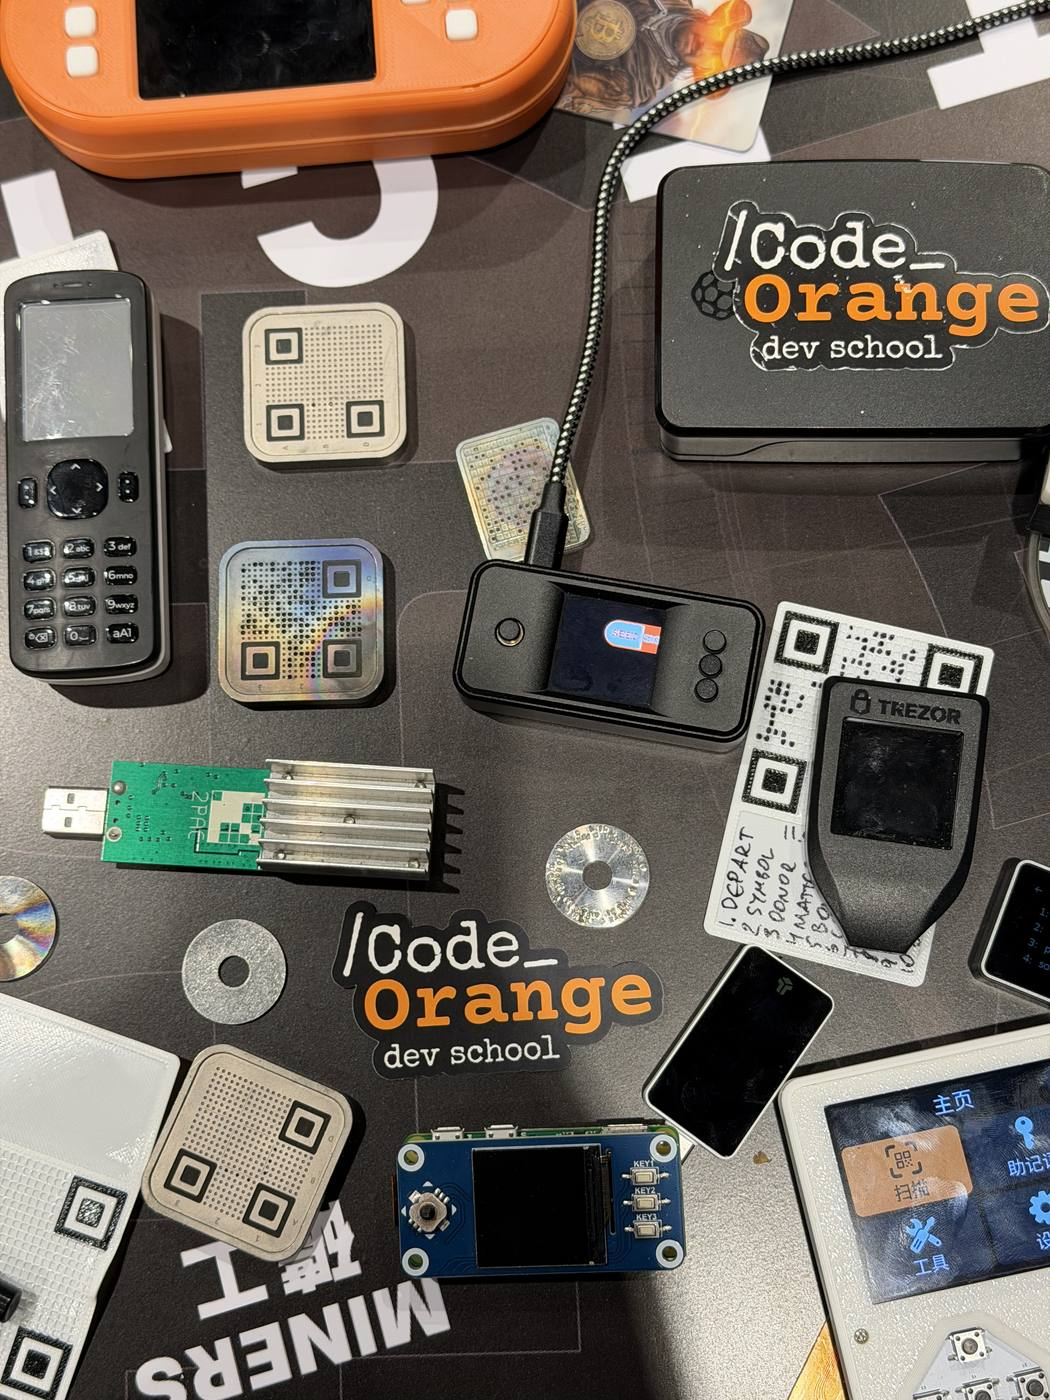
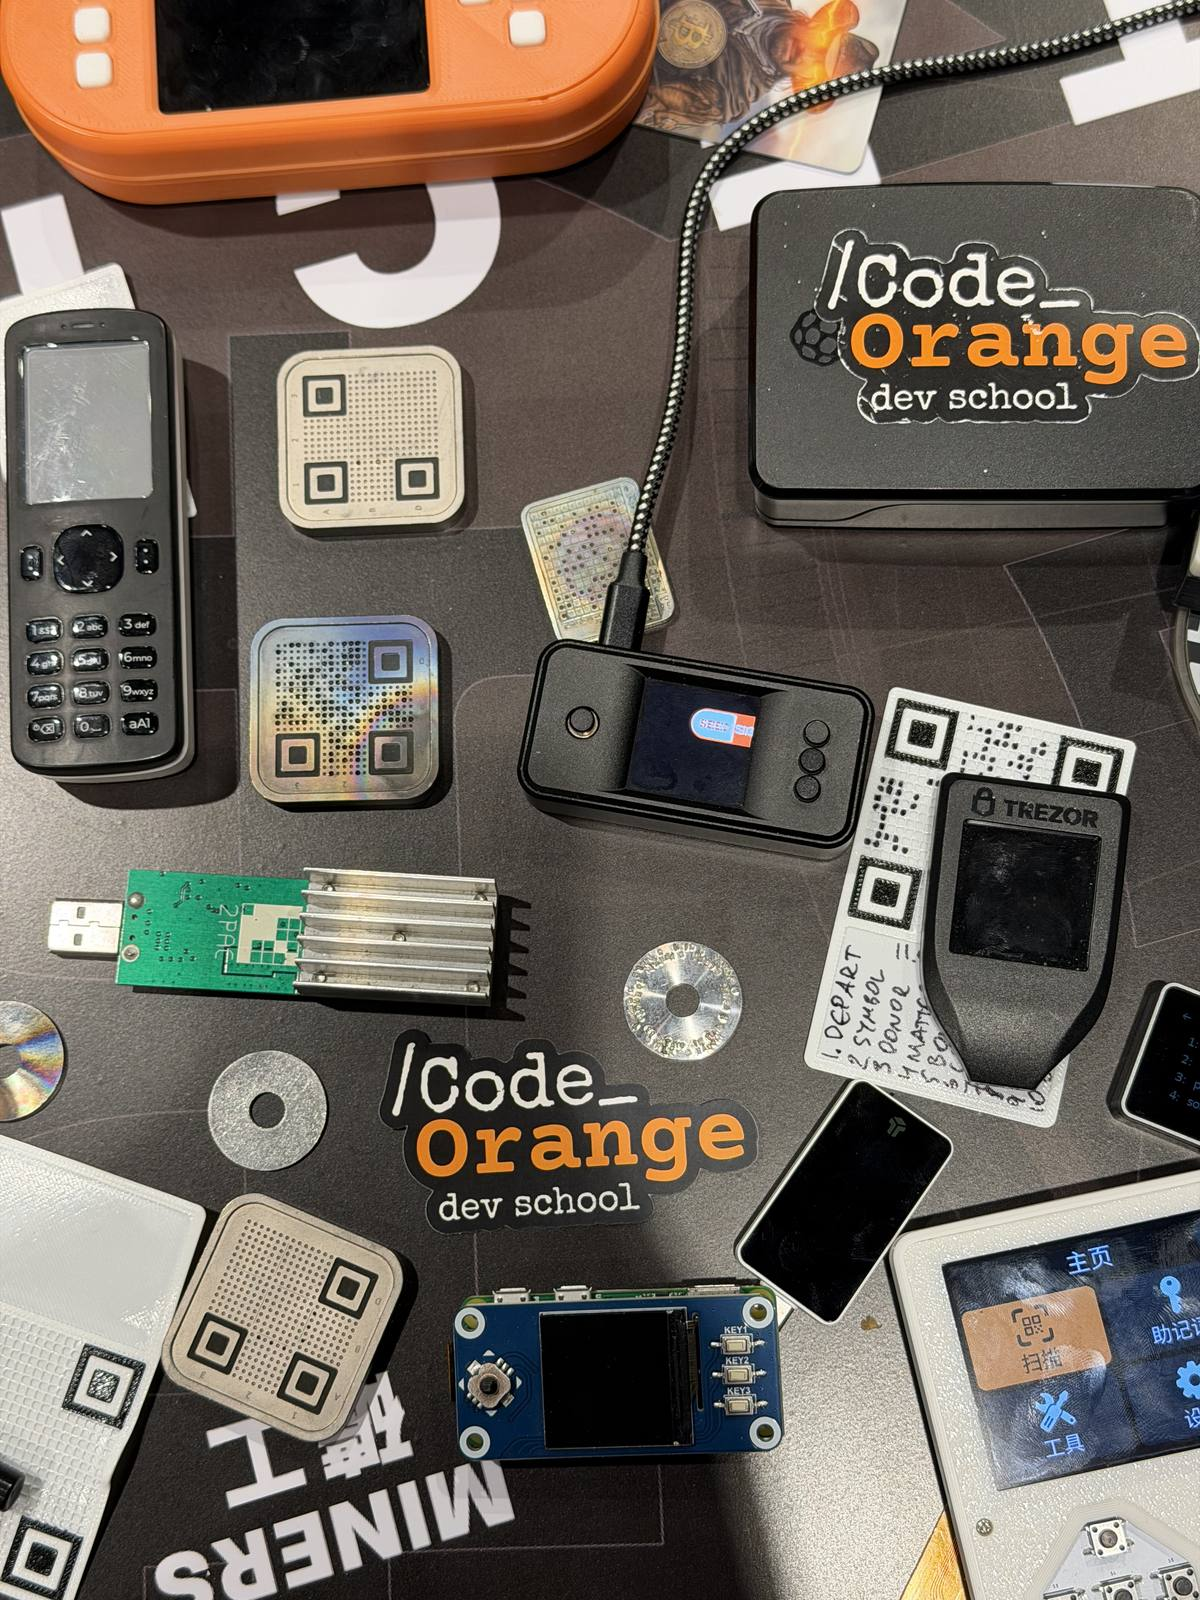
Background photos: show the whole photo at natural proportions, 25% fainter (#28)
Claude-Session: https://claude.ai/code/session_01TsaqiCxVoK3cXng2ZMixCB

diff --git a/mastering-bitcoin.html b/mastering-bitcoin.html
@@ -325,17 +325,19 @@ button.ghost { background: transparent; cursor: pointer; font: inherit; font-wei
 }
 
 
-/* Photo backgrounds: faint, faded at the edges, behind the content */
+/* Photo backgrounds: the whole photo (3:4, not cropped), large and soft-edged, behind the content */
 .mb-bg { position: relative; isolation: isolate; }
-.mb-bg::after { content: ""; position: absolute; top: 0; bottom: 0; z-index: -1; width: min(78vw, 1300px); pointer-events: none; background: var(--mb-bg) center / cover no-repeat; opacity: .62; filter: contrast(1.05); }
-.mb-bg-right::after { right: calc(50% - 50vw); -webkit-mask-image: radial-gradient(ellipse 85% 80% at 70% 50%, #000 45%, transparent 92%); mask-image: radial-gradient(ellipse 85% 80% at 70% 50%, #000 45%, transparent 92%); }
-.mb-bg-left::after { left: calc(50% - 50vw); -webkit-mask-image: radial-gradient(ellipse 85% 80% at 30% 50%, #000 45%, transparent 92%); mask-image: radial-gradient(ellipse 85% 80% at 30% 50%, #000 45%, transparent 92%); }
-.mb-bg.band::after { opacity: .58; }
+.mb-bg::after { content: ""; position: absolute; top: 0; z-index: -1; width: min(62vw, 960px); aspect-ratio: 3 / 4; pointer-events: none; background: var(--mb-bg) center / contain no-repeat; opacity: .47; filter: contrast(1.05);
+  -webkit-mask-image: linear-gradient(to right, transparent, #000 24%, #000 80%, transparent), linear-gradient(to bottom, transparent, #000 12%, #000 88%, transparent); -webkit-mask-composite: source-in;
+  mask-image: linear-gradient(to right, transparent, #000 24%, #000 80%, transparent), linear-gradient(to bottom, transparent, #000 12%, #000 88%, transparent); mask-composite: intersect; }
+.mb-bg-right::after { right: calc(50% - 50vw); }
+.mb-bg-left::after { left: calc(50% - 50vw); }
+.mb-bg.band { overflow: hidden; }
+.mb-bg.band::after { top: 50%; transform: translateY(-50%); opacity: .44; }
 .mb-bg :is(h2, h3, .lead, .eyebrow, .mb-norms, .mb-rail, .mb-fine) { text-shadow: 0 1px 2px rgba(0,0,0,.9), 0 2px 18px rgba(0,0,0,.85); }
 @media (max-width: 900px) {
-  .mb-bg::after { width: 100vw; opacity: .38; }
-  .mb-bg.band::after { opacity: .38; }
-  .mb-bg-right::after, .mb-bg-left::after { -webkit-mask-image: radial-gradient(ellipse 95% 70% at 50% 45%, #000 35%, transparent 90%); mask-image: radial-gradient(ellipse 95% 70% at 50% 45%, #000 35%, transparent 90%); }
+  .mb-bg::after { width: 100vw; opacity: .29; }
+  .mb-bg.band::after { opacity: .29; }
 }
 
 /* ── Polish: buttons, motion, glow ── */
@@ -497,7 +499,7 @@ button.ghost { background: transparent; cursor: pointer; font: inherit; font-wei
     <div id="mb-me" class="feature-panel mb-me" hidden></div>
   </section>
 
-  <section id="curriculum" class="section-inner mb-bg mb-bg-right" style="--mb-bg:url(/assets/mastering-bitcoin/bg-workshop-table.jpg?v=2);scroll-margin-top:96px">
+  <section id="curriculum" class="section-inner mb-bg mb-bg-right" style="--mb-bg:url(/assets/mastering-bitcoin/bg-workshop-table.jpg?v=3);scroll-margin-top:96px">
     <div class="split"><div><p class="eyebrow">Curriculum</p><h2>One chapter a week.</h2></div><p class="lead">Read the chapter before Monday. Questions are shared out evenly, so each week some of them are yours. Answer them in the cohort channel on Discord and tick them off here. Chapters link to the free online edition of the book.</p></div>
     <nav id="mb-rail" class="mb-rail" aria-label="Jump to a week"></nav>
     <div id="mb-weeks" class="mb-weeks"></div>
@@ -546,7 +548,7 @@ button.ghost { background: transparent; cursor: pointer; font: inherit; font-wei
     <div id="mb-roster" class="mb-roster"></div>
   </section>
 
-  <section id="signup" class="band mb-bg mb-bg-right" style="--mb-bg:url(/assets/mastering-bitcoin/bg-workshop-table.jpg?v=2);scroll-margin-top:96px"><div class="section-inner">
+  <section id="signup" class="band mb-bg mb-bg-right" style="--mb-bg:url(/assets/mastering-bitcoin/bg-workshop-table.jpg?v=3);scroll-margin-top:96px"><div class="section-inner">
     <div class="split">
       <div><p class="eyebrow">Sign up</p><h2>Join the cohort.</h2><p class="lead">Free of charge for everyone joining. All you need is a Discord account and a few hours a week. Joining late is fine: you pick up questions from the weeks still to come.</p><button type="button" class="ghost small" data-mb-share>Invite a friend</button></div>
       <div class="feature-panel"><div class="feature-panel-inner">

diff --git a/mastering-bitcoin/index.html b/mastering-bitcoin/index.html
@@ -325,17 +325,19 @@ button.ghost { background: transparent; cursor: pointer; font: inherit; font-wei
 }
 
 
-/* Photo backgrounds: faint, faded at the edges, behind the content */
+/* Photo backgrounds: the whole photo (3:4, not cropped), large and soft-edged, behind the content */
 .mb-bg { position: relative; isolation: isolate; }
-.mb-bg::after { content: ""; position: absolute; top: 0; bottom: 0; z-index: -1; width: min(78vw, 1300px); pointer-events: none; background: var(--mb-bg) center / cover no-repeat; opacity: .62; filter: contrast(1.05); }
-.mb-bg-right::after { right: calc(50% - 50vw); -webkit-mask-image: radial-gradient(ellipse 85% 80% at 70% 50%, #000 45%, transparent 92%); mask-image: radial-gradient(ellipse 85% 80% at 70% 50%, #000 45%, transparent 92%); }
-.mb-bg-left::after { left: calc(50% - 50vw); -webkit-mask-image: radial-gradient(ellipse 85% 80% at 30% 50%, #000 45%, transparent 92%); mask-image: radial-gradient(ellipse 85% 80% at 30% 50%, #000 45%, transparent 92%); }
-.mb-bg.band::after { opacity: .58; }
+.mb-bg::after { content: ""; position: absolute; top: 0; z-index: -1; width: min(62vw, 960px); aspect-ratio: 3 / 4; pointer-events: none; background: var(--mb-bg) center / contain no-repeat; opacity: .47; filter: contrast(1.05);
+  -webkit-mask-image: linear-gradient(to right, transparent, #000 24%, #000 80%, transparent), linear-gradient(to bottom, transparent, #000 12%, #000 88%, transparent); -webkit-mask-composite: source-in;
+  mask-image: linear-gradient(to right, transparent, #000 24%, #000 80%, transparent), linear-gradient(to bottom, transparent, #000 12%, #000 88%, transparent); mask-composite: intersect; }
+.mb-bg-right::after { right: calc(50% - 50vw); }
+.mb-bg-left::after { left: calc(50% - 50vw); }
+.mb-bg.band { overflow: hidden; }
+.mb-bg.band::after { top: 50%; transform: translateY(-50%); opacity: .44; }
 .mb-bg :is(h2, h3, .lead, .eyebrow, .mb-norms, .mb-rail, .mb-fine) { text-shadow: 0 1px 2px rgba(0,0,0,.9), 0 2px 18px rgba(0,0,0,.85); }
 @media (max-width: 900px) {
-  .mb-bg::after { width: 100vw; opacity: .38; }
-  .mb-bg.band::after { opacity: .38; }
-  .mb-bg-right::after, .mb-bg-left::after { -webkit-mask-image: radial-gradient(ellipse 95% 70% at 50% 45%, #000 35%, transparent 90%); mask-image: radial-gradient(ellipse 95% 70% at 50% 45%, #000 35%, transparent 90%); }
+  .mb-bg::after { width: 100vw; opacity: .29; }
+  .mb-bg.band::after { opacity: .29; }
 }
 
 /* ── Polish: buttons, motion, glow ── */
@@ -497,7 +499,7 @@ button.ghost { background: transparent; cursor: pointer; font: inherit; font-wei
     <div id="mb-me" class="feature-panel mb-me" hidden></div>
   </section>
 
-  <section id="curriculum" class="section-inner mb-bg mb-bg-right" style="--mb-bg:url(/assets/mastering-bitcoin/bg-workshop-table.jpg?v=2);scroll-margin-top:96px">
+  <section id="curriculum" class="section-inner mb-bg mb-bg-right" style="--mb-bg:url(/assets/mastering-bitcoin/bg-workshop-table.jpg?v=3);scroll-margin-top:96px">
     <div class="split"><div><p class="eyebrow">Curriculum</p><h2>One chapter a week.</h2></div><p class="lead">Read the chapter before Monday. Questions are shared out evenly, so each week some of them are yours. Answer them in the cohort channel on Discord and tick them off here. Chapters link to the free online edition of the book.</p></div>
     <nav id="mb-rail" class="mb-rail" aria-label="Jump to a week"></nav>
     <div id="mb-weeks" class="mb-weeks"></div>
@@ -546,7 +548,7 @@ button.ghost { background: transparent; cursor: pointer; font: inherit; font-wei
     <div id="mb-roster" class="mb-roster"></div>
   </section>
 
-  <section id="signup" class="band mb-bg mb-bg-right" style="--mb-bg:url(/assets/mastering-bitcoin/bg-workshop-table.jpg?v=2);scroll-margin-top:96px"><div class="section-inner">
+  <section id="signup" class="band mb-bg mb-bg-right" style="--mb-bg:url(/assets/mastering-bitcoin/bg-workshop-table.jpg?v=3);scroll-margin-top:96px"><div class="section-inner">
     <div class="split">
       <div><p class="eyebrow">Sign up</p><h2>Join the cohort.</h2><p class="lead">Free of charge for everyone joining. All you need is a Discord account and a few hours a week. Joining late is fine: you pick up questions from the weeks still to come.</p><button type="button" class="ghost small" data-mb-share>Invite a friend</button></div>
       <div class="feature-panel"><div class="feature-panel-inner">
